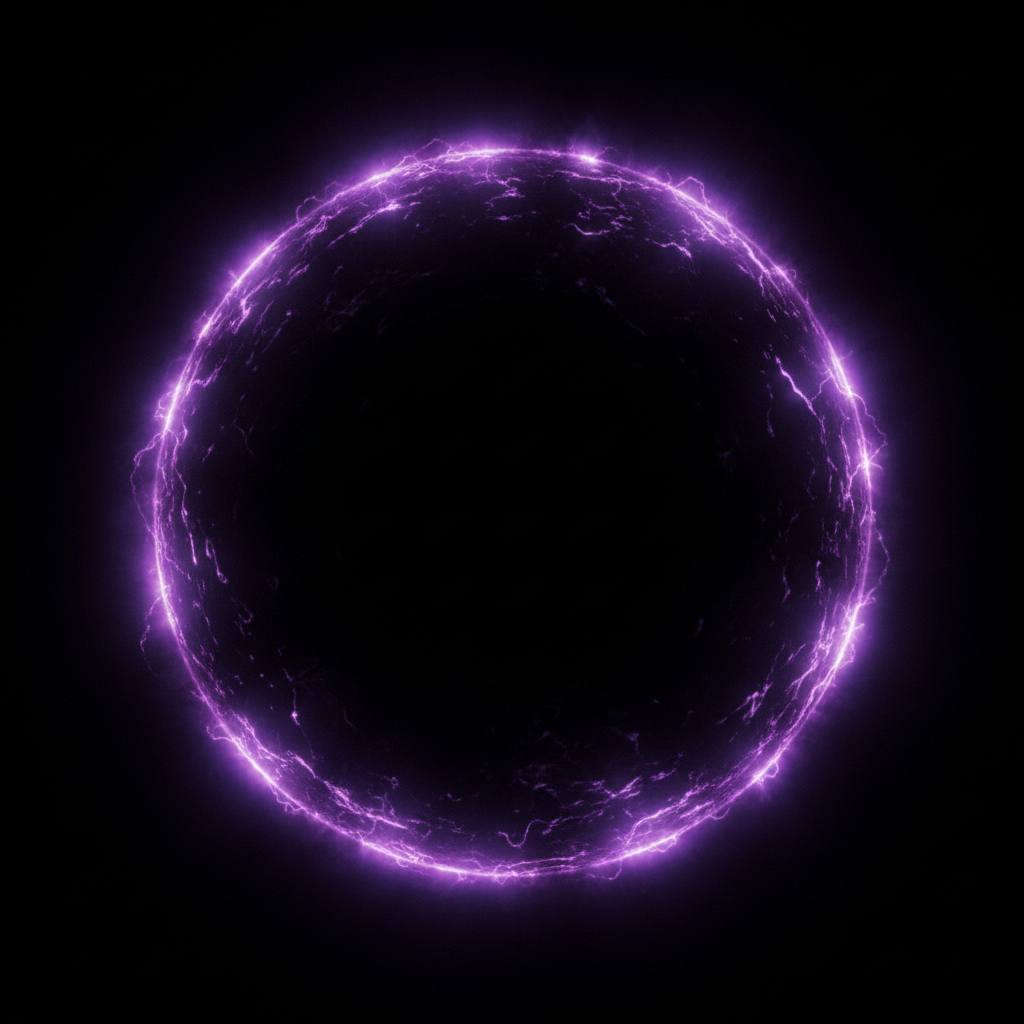
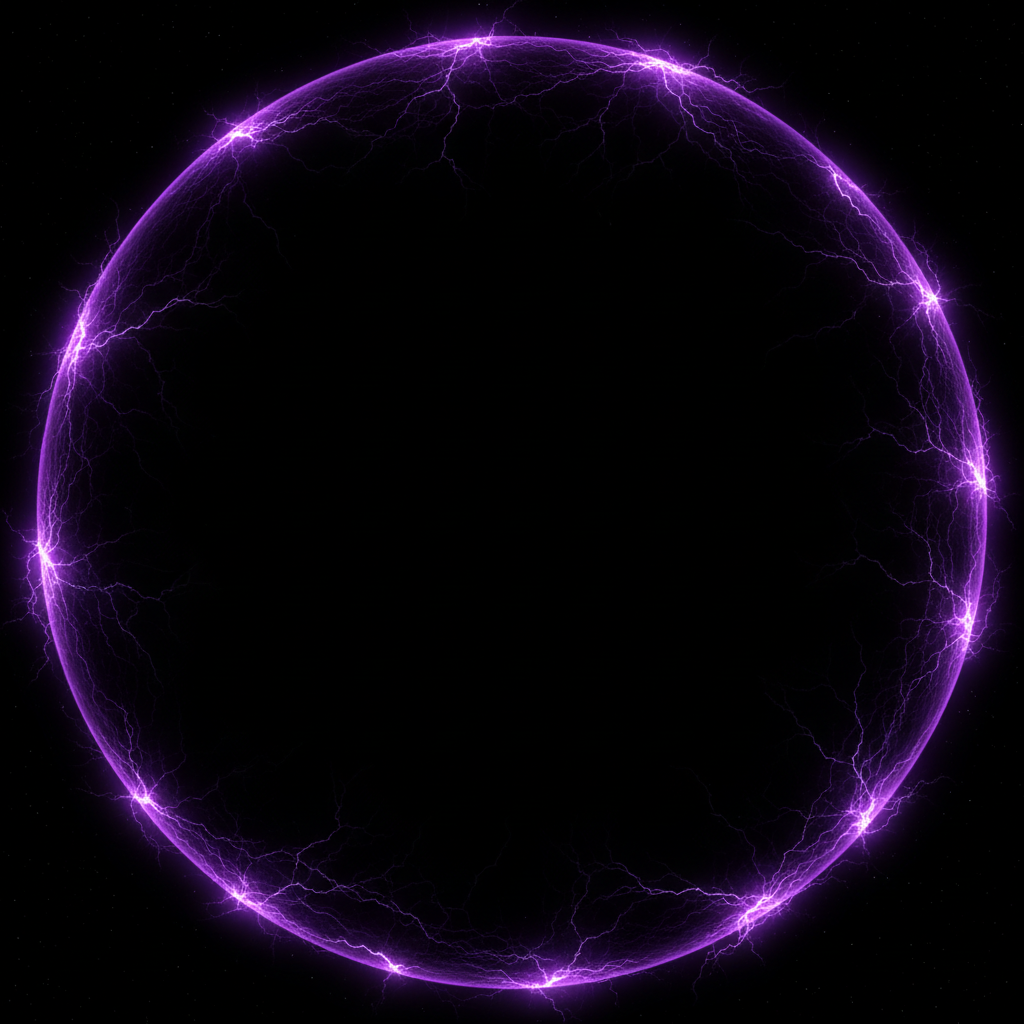
Fix blank screen + picker UI + void art
BLANK SCREEN FIX:
- Removed guide animation auto-hooks from renderGuide() that were
  potentially causing JS runtime issues on game load
- Removed auto-show on page load (guide accessible via ? button in HUD)

PICKER UI FIXES:
- Difficulty pre-selected as balanced when picker opens
- Game Type + Difficulty on same horizontal row (less tall)
- Added section labels: 'GAME TYPE' and 'DIFFICULTY'
- Removed duplicate INVITE FRIEND button from action row
- Invite Friend no longer flashes computer flow before modal

VOID ART:
- t1_e, t2_b, extra_a, t1_b redone
- All new images copied to void/ folder (game path)

diff --git a/index.html b/index.html
@@ -1480,6 +1480,7 @@ function selectOpponent(raceId, tileEl) {
 function showOpponentPicker() {
   if (!selectedRace) return;
   stopCivVoice(); // Stop voice on launch
+  setTimeout(() => setDiff('balanced'), 0); // pre-select balanced
   const modal = document.getElementById('opponentModal');
   const grid  = document.getElementById('opponentGrid');
   if (!modal || !grid) { launchGame('random'); return; }
@@ -1556,11 +1557,9 @@ function selectMode(mode) {
     mf.style.borderColor = '#1a1a28'; mf.style.boxShadow = 'none'; mf.style.transform = ''; mf.querySelector('img').style.filter = 'brightness(0.55)'; mf.querySelector('.mode-check').style.display = 'none';
     flow.style.display = 'flex';
   } else {
-    mf.style.borderColor = '#8855ff'; mf.style.boxShadow = '0 0 28px #8855ff55,0 0 0 1px #8855ff44'; mf.style.transform = 'scale(1.04)'; mf.querySelector('img').style.filter = ''; mf.querySelector('.mode-check').style.display = 'flex';
-    mc.style.borderColor = '#1a1a28'; mc.style.boxShadow = 'none'; mc.style.transform = ''; mc.querySelector('img').style.filter = 'brightness(0.55)'; mc.querySelector('.mode-check').style.display = 'none';
-    flow.style.display = 'none';
-    if (selectedRace) createRoom();
-    else alert('Please select your faction first, then choose Invite Friend.');
+    // Invite friend: skip animation, go straight to room creation
+    if (selectedRace) { createRoom(); return; }
+    else { alert('Please select your faction first, then choose Invite Friend.'); return; }
   }
 }
 
@@ -1834,42 +1833,44 @@ Promise.all(
   font-family:'Share Tech Mono','Courier New',monospace;
   overflow-y:auto;padding:24px 0;
 ">
-  <!-- Mode selector — VS COMPUTER (default) or INVITE FRIEND -->
-  <div style="display:flex;gap:16px;justify-content:center;margin-bottom:4px;">
+  <!-- Game type + difficulty on same row -->
+  <div style="display:flex;gap:24px;align-items:flex-end;max-width:920px;width:100%;justify-content:center;flex-wrap:wrap;">
 
-    <div id="modeComputer" onclick="selectMode('computer')" style="
-      position:relative;width:200px;height:120px;border-radius:12px;overflow:hidden;
-      cursor:pointer;border:2px solid #00ffcc;transition:all 0.22s;
-      box-shadow:0 0 22px #00ffcc44,0 0 0 1px #00ffcc33;">
-      <img src="assets/mode-computer.png" style="width:100%;height:100%;object-fit:cover;display:block;">
-      <div style="position:absolute;inset:0;background:linear-gradient(transparent 35%,#000000cc);"></div>
-      <div class="mode-check" style="display:flex;position:absolute;top:8px;right:8px;width:20px;height:20px;border-radius:50%;background:#00ffcc;align-items:center;justify-content:center;font-size:11px;color:#000;font-weight:bold;">✓</div>
-      <div style="position:absolute;bottom:10px;left:0;right:0;text-align:center;">
-        <div style="font-family:'Orbitron',monospace;font-size:12px;letter-spacing:2px;color:#00ffcc;">VS COMPUTER</div>
+    <!-- GAME TYPE group -->
+    <div style="display:flex;flex-direction:column;gap:8px;">
+      <div style="font-family:'Orbitron',monospace;font-size:11px;letter-spacing:3px;color:#555;">GAME TYPE</div>
+      <div style="display:flex;gap:10px;">
+        <div id="modeComputer" onclick="selectMode('computer')" style="
+          position:relative;width:150px;height:90px;border-radius:10px;overflow:hidden;
+          cursor:pointer;border:2px solid #00ffcc;transition:all 0.22s;
+          box-shadow:0 0 18px #00ffcc44,0 0 0 1px #00ffcc33;">
+          <img src="assets/mode-computer.png" style="width:100%;height:100%;object-fit:cover;display:block;">
+          <div style="position:absolute;inset:0;background:linear-gradient(transparent 35%,#000000cc);"></div>
+          <div class="mode-check" style="display:flex;position:absolute;top:6px;right:6px;width:18px;height:18px;border-radius:50%;background:#00ffcc;align-items:center;justify-content:center;font-size:10px;color:#000;font-weight:bold;">✓</div>
+          <div style="position:absolute;bottom:8px;left:0;right:0;text-align:center;">
+            <div style="font-family:'Orbitron',monospace;font-size:10px;letter-spacing:1px;color:#00ffcc;">VS COMPUTER</div>
+          </div>
+        </div>
+        <div id="modeFriend" onclick="selectMode('friend')" style="
+          position:relative;width:150px;height:90px;border-radius:10px;overflow:hidden;
+          cursor:pointer;border:2px solid #1a1a28;transition:all 0.22s;box-shadow:none;">
+          <img src="assets/mode-friend.png" style="width:100%;height:100%;object-fit:cover;display:block;filter:brightness(0.55);">
+          <div style="position:absolute;inset:0;background:linear-gradient(transparent 35%,#000000cc);"></div>
+          <div class="mode-check" style="display:none;position:absolute;top:6px;right:6px;width:18px;height:18px;border-radius:50%;background:#8855ff;align-items:center;justify-content:center;font-size:10px;color:#fff;font-weight:bold;">✓</div>
+          <div style="position:absolute;bottom:8px;left:0;right:0;text-align:center;">
+            <div style="font-family:'Orbitron',monospace;font-size:10px;letter-spacing:1px;color:#aaa;">INVITE FRIEND</div>
+          </div>
+        </div>
       </div>
     </div>
 
-    <div id="modeFriend" onclick="selectMode('friend')" style="
-      position:relative;width:200px;height:120px;border-radius:12px;overflow:hidden;
-      cursor:pointer;border:2px solid #1a1a28;transition:all 0.22s;box-shadow:none;">
-      <img src="assets/mode-friend.png" style="width:100%;height:100%;object-fit:cover;display:block;filter:brightness(0.55);">
-      <div style="position:absolute;inset:0;background:linear-gradient(transparent 35%,#000000cc);"></div>
-      <div class="mode-check" style="display:none;position:absolute;top:8px;right:8px;width:20px;height:20px;border-radius:50%;background:#8855ff;align-items:center;justify-content:center;font-size:11px;color:#fff;font-weight:bold;">✓</div>
-      <div style="position:absolute;bottom:10px;left:0;right:0;text-align:center;">
-        <div style="font-family:'Orbitron',monospace;font-size:12px;letter-spacing:2px;color:#aaa;">INVITE FRIEND</div>
-      </div>
-    </div>
+    <!-- Divider -->
+    <div style="width:1px;height:90px;background:#1a1a28;align-self:flex-end;margin-bottom:0;"></div>
 
-  </div>
-
-  <!-- Difficulty + Opponent selection (visible immediately since VS Computer is default) -->
-  <div id="computerFlow" style="display:flex;flex-direction:column;align-items:center;gap:20px;width:100%;">
-
-  <!-- Difficulty header -->
-  <div style="font-family:'Orbitron',monospace;font-size:20px;letter-spacing:5px;color:#fff;text-shadow:0 0 20px #8855ffaa;">SELECT DIFFICULTY</div>
-
-  <!-- Difficulty tiles -->
-  <div style="display:flex;gap:14px;max-width:860px;width:100%;justify-content:center;">
+    <!-- DIFFICULTY group -->
+    <div style="display:flex;flex-direction:column;gap:8px;">
+      <div style="font-family:'Orbitron',monospace;font-size:11px;letter-spacing:3px;color:#555;">DIFFICULTY</div>
+      <div id="computerFlow" style="display:flex;gap:10px;">
     <!-- PASSIVE tile -->
     <div id="diff-passive" onclick="setDiff('passive')" style="position:relative;width:220px;height:116px;border-radius:10px;overflow:hidden;cursor:pointer;border:2px solid #1a1a28;transition:all 0.2s;flex-shrink:0;">
       <img src="assets/diff-passive.png" style="width:100%;height:100%;object-fit:cover;object-position:center;display:block;">
@@ -1917,14 +1918,6 @@ Promise.all(
       " onmouseenter="this.style.borderColor='#aa77ff';this.style.color='#fff';this.style.background='#1a0a2e'"
          onmouseleave="this.style.borderColor='#8855ff99';this.style.color='#cc99ff';this.style.background='#0d0818'">
         ← BACK
-      </button>
-      <button onclick="if(selectedRace)createRoom();else alert('Select your faction first')" style="
-        background:transparent;border:1px solid #8855ff55;color:#8855ff;
-        font-family:'Orbitron',monospace;font-size:11px;letter-spacing:2px;
-        padding:10px 16px;cursor:pointer;border-radius:6px;transition:all 0.2s;
-      " onmouseenter="this.style.borderColor='#8855ffaa';this.style.color='#cc99ff'"
-         onmouseleave="this.style.borderColor='#8855ff55';this.style.color='#8855ff'">
-        ⚡ INVITE FRIEND
       </button>
     </div>
     <!-- Right: BEGIN MATCH (disabled until opponent chosen) -->

diff --git a/game.html b/game.html
@@ -4520,11 +4520,6 @@ function renderGuide() {
   document.getElementById('guideTitle').textContent = p.title;
   document.getElementById('guidePageNum').textContent = `PAGE ${_guidePage+1} OF ${GUIDE_PAGES.length}`;
   document.getElementById('guideContent').innerHTML = p.html;
-  // Start page-specific animations after content renders
-  setTimeout(() => {
-    if (_guidePage === 0) _startBoardAnim();
-    else if (_guidePage === 1) _startBattleAnim();
-  }, 50);
   document.getElementById('guidePrev').style.opacity = _guidePage === 0 ? '0.3' : '1';
   const nextBtn = document.getElementById('guideNext');
   if (_guidePage === GUIDE_PAGES.length - 1) {
@@ -4551,12 +4546,7 @@ function closeGuide() {
   }
 }
 
-// Auto-show on first visit
-window.addEventListener('load', () => {
-  if (!localStorage.getItem('gz_guide_seen')) {
-    setTimeout(showGuide, 800);
-  }
-});
+// Guide accessible via ? USER GUIDE button in faction HUD
 
 // ── START ─────────────────────────────────────
 // Set active deck from URL param BEFORE initGame reads it
